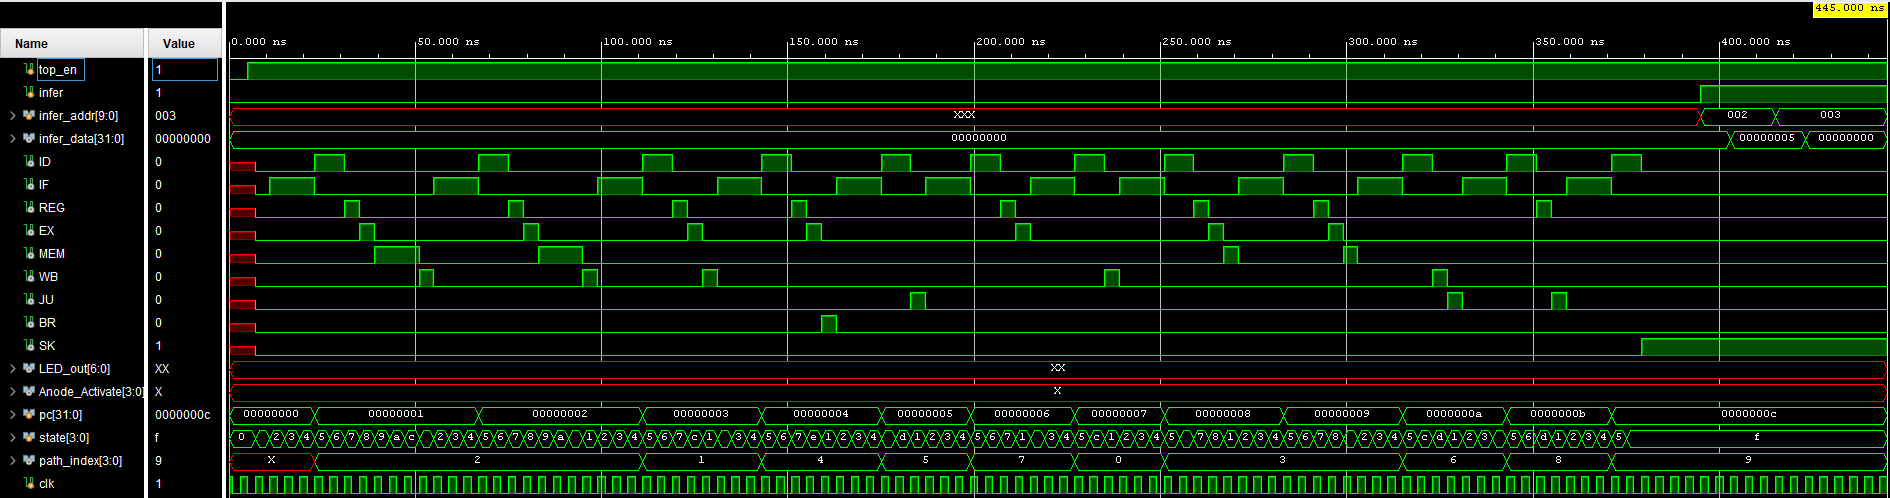
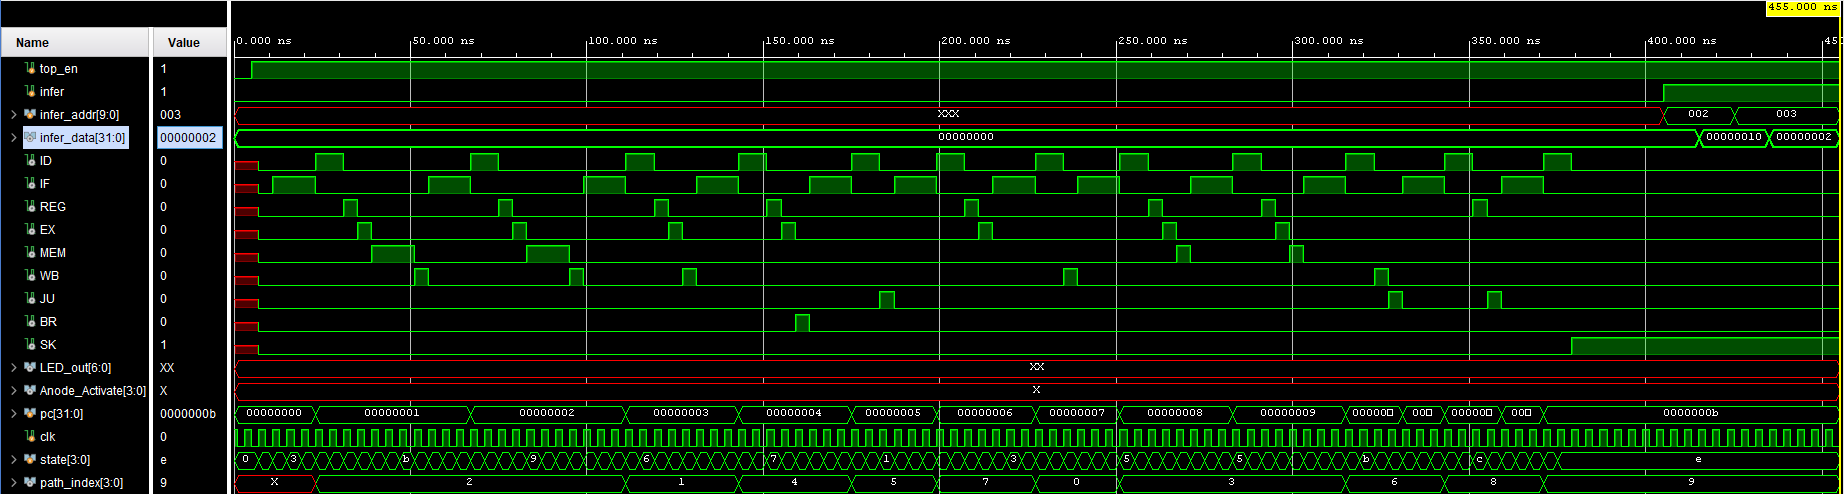
simulation working, FPGA implementation hsa unknown errors

Changed region(s): [[0.0, 0.0, 1.0, 1.0], [0.0, 0.3644, 0.0309, 0.4251]]

diff --git a/utils/coe_generator.py b/utils/coe_generator.py
@@ -25,9 +25,9 @@ with open("./src/data.coe", "w") as f:
             f.write("00000000000000000000000000000000,\n")
         elif i == data_segment_start:
             # Begin the data segment at the specified start index (e.g., 6300)
-            f.write("00000000000000000000000000000111,\n")
-        # elif i == data_segment_start + 1:
-            # f.write("00000000000000000000000000000100,\n")
+            f.write("00000000000000000000000000001011,\n")
+        elif i == data_segment_start + 1:
+            f.write("00000000000000000000000000000101,\n")
         elif i < mem_words - 1:
             # Continue filling with zeros in the remaining memory
             f.write("00000000000000000000000000000000,\n")
